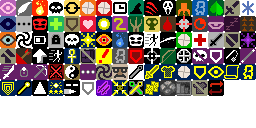
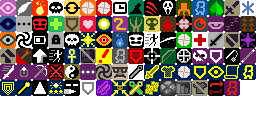
2.0.0-beta4:制作怨魂新护甲技能“邪恶展开”

Changed region(s): [[0.875, 0.625, 0.9375, 0.75]]

diff --git a/core/src/main/java/com/shatteredpixel/shatteredpixeldungeon/actors/hero/abilities/wraith/EvilUnfold.java b/core/src/main/java/com/shatteredpixel/shatteredpixeldungeon/actors/hero/abilities/wraith/EvilUnfold.java
@@ -1,0 +1,119 @@
+/*
+ * Pixel Dungeon
+ * Copyright (C) 2012-2015 Oleg Dolya
+ *
+ * Shattered Pixel Dungeon
+ * Copyright (C) 2014-2025 Evan Debenham
+ *
+ * This program is free software: you can redistribute it and/or modify
+ * it under the terms of the GNU General Public License as published by
+ * the Free Software Foundation, either version 3 of the License, or
+ * (at your option) any later version.
+ *
+ * This program is distributed in the hope that it will be useful,
+ * but WITHOUT ANY WARRANTY; without even the implied warranty of
+ * MERCHANTABILITY or FITNESS FOR A PARTICULAR PURPOSE.  See the
+ * GNU General Public License for more details.
+ *
+ * You should have received a copy of the GNU General Public License
+ * along with this program.  If not, see <http://www.gnu.org/licenses/>
+ */
+
+package com.shatteredpixel.shatteredpixeldungeon.actors.hero.abilities.wraith;
+
+import com.shatteredpixel.shatteredpixeldungeon.Assets;
+import com.shatteredpixel.shatteredpixeldungeon.actors.Actor;
+import com.shatteredpixel.shatteredpixeldungeon.actors.Char;
+import com.shatteredpixel.shatteredpixeldungeon.actors.buffs.BrokenArmor;
+import com.shatteredpixel.shatteredpixeldungeon.actors.buffs.Buff;
+import com.shatteredpixel.shatteredpixeldungeon.actors.buffs.Cripple;
+import com.shatteredpixel.shatteredpixeldungeon.actors.buffs.Daze;
+import com.shatteredpixel.shatteredpixeldungeon.actors.buffs.FlavourBuff;
+import com.shatteredpixel.shatteredpixeldungeon.actors.buffs.Hex;
+import com.shatteredpixel.shatteredpixeldungeon.actors.buffs.Invisibility;
+import com.shatteredpixel.shatteredpixeldungeon.actors.buffs.Paralysis;
+import com.shatteredpixel.shatteredpixeldungeon.actors.buffs.Roots;
+import com.shatteredpixel.shatteredpixeldungeon.actors.buffs.Slow;
+import com.shatteredpixel.shatteredpixeldungeon.actors.buffs.Vulnerable;
+import com.shatteredpixel.shatteredpixeldungeon.actors.hero.Hero;
+import com.shatteredpixel.shatteredpixeldungeon.actors.hero.Talent;
+import com.shatteredpixel.shatteredpixeldungeon.actors.hero.abilities.ArmorAbility;
+import com.shatteredpixel.shatteredpixeldungeon.effects.Flare;
+import com.shatteredpixel.shatteredpixeldungeon.items.armor.ClassArmor;
+import com.shatteredpixel.shatteredpixeldungeon.ui.BuffIndicator;
+import com.shatteredpixel.shatteredpixeldungeon.ui.HeroIcon;
+import com.watabou.noosa.audio.Sample;
+import com.watabou.utils.Random;
+
+import java.util.ArrayList;
+
+public class EvilUnfold extends ArmorAbility {
+
+	{
+		baseChargeUse = 50;
+	}
+
+	@Override
+	protected void activate(ClassArmor armor, Hero hero, Integer target) {
+		Buff.affect(hero, Evil.class, 10f);
+		hero.sprite.operate(hero.pos);
+		Sample.INSTANCE.play(Assets.Sounds.BURNING);
+		new Flare(6, 48).color(0xFF0000, true).show(hero.sprite, 2f);
+
+		armor.charge -= chargeUse(hero);
+		armor.updateQuickslot();
+		Invisibility.dispel();
+		hero.spendAndNext(Actor.TICK);
+	}
+
+	@Override
+	public int icon() {
+		return HeroIcon.EVILUNFOLD;
+	}
+
+	@Override
+	public Talent[] talents() {
+		return new Talent[]{Talent.HEROIC_ENERGY};
+	}
+
+	public static class Evil extends FlavourBuff {
+
+		{
+			type = buffType.POSITIVE;
+		}
+
+		public static float DURATION = 10f;
+		private float delayedTime = 0f;
+
+		@Override
+		public int icon() {
+			return BuffIndicator.EVILUNFOLD;
+		}
+
+		public static void giveDebuff(int point, Char c){
+			ArrayList<Class<? extends FlavourBuff>> debuffs = new ArrayList<>();
+			if (c.buff(Vulnerable.class) == null) debuffs.add(Vulnerable.class);
+			else if (c.buff(BrokenArmor.class) == null && point >= 1)
+				debuffs.add(BrokenArmor.class);
+			if (c.buff(Hex.class) == null)        debuffs.add(Hex.class);
+			else if (c.buff(Daze.class) == null && point >= 2)
+				debuffs.add(Daze.class);
+			if (c.buff(Cripple.class) == null)    debuffs.add(Cripple.class);
+			else if (c.buff(Roots.class) == null && point >= 3)
+				debuffs.add(Roots.class);
+			if (c.buff(Slow.class) == null)       debuffs.add(Slow.class);
+			else if (c.buff(Paralysis.class) == null && point >= 4)
+				debuffs.add(Paralysis.class);
+
+			if (!debuffs.isEmpty()) Buff.prolong(c, debuffs.get(Random.Int(debuffs.size())), 10f);
+		}
+
+		public void delayTime(float dmg){
+			if (!((Hero)target).hasTalent(Talent.IMMORTAL_EVIL)) return;
+			float toDly = dmg / (target.HT * 0.15f - 0.025f * ((Hero)target).pointsInTalent(Talent.IMMORTAL_EVIL));
+			toDly = Math.min(toDly, 10 - delayedTime);
+			spend(toDly);
+			delayedTime += toDly;
+		}
+	}
+}

diff --git a/core/src/main/java/com/shatteredpixel/shatteredpixeldungeon/actors/hero/Talent.java b/core/src/main/java/com/shatteredpixel/shatteredpixeldungeon/actors/hero/Talent.java
@@ -29,6 +29,7 @@ import com.shatteredpixel.shatteredpixeldungeon.actors.Actor;
 import com.shatteredpixel.shatteredpixeldungeon.actors.Char;
 import com.shatteredpixel.shatteredpixeldungeon.actors.buffs.AcidRain;
 import com.shatteredpixel.shatteredpixeldungeon.actors.buffs.Adrenaline;
+import com.shatteredpixel.shatteredpixeldungeon.actors.buffs.AllyBuff;
 import com.shatteredpixel.shatteredpixeldungeon.actors.buffs.ArtifactRecharge;
 import com.shatteredpixel.shatteredpixeldungeon.actors.buffs.Barrier;
 import com.shatteredpixel.shatteredpixeldungeon.actors.buffs.Bleeding;
@@ -37,6 +38,7 @@ import com.shatteredpixel.shatteredpixeldungeon.actors.buffs.BrokenArmor;
 import com.shatteredpixel.shatteredpixeldungeon.actors.buffs.Buff;
 import com.shatteredpixel.shatteredpixeldungeon.actors.buffs.Burning;
 import com.shatteredpixel.shatteredpixeldungeon.actors.buffs.Chill;
+import com.shatteredpixel.shatteredpixeldungeon.actors.buffs.Corruption;
 import com.shatteredpixel.shatteredpixeldungeon.actors.buffs.CounterBuff;
 import com.shatteredpixel.shatteredpixeldungeon.actors.buffs.Cripple;
 import com.shatteredpixel.shatteredpixeldungeon.actors.buffs.EnhancedRings;
@@ -58,6 +60,7 @@ import com.shatteredpixel.shatteredpixeldungeon.actors.buffs.WandEmpower;
 import com.shatteredpixel.shatteredpixeldungeon.actors.hero.abilities.ArmorAbility;
 import com.shatteredpixel.shatteredpixeldungeon.actors.hero.abilities.Ratmogrify;
 import com.shatteredpixel.shatteredpixeldungeon.actors.hero.abilities.duelist.Challenge;
+import com.shatteredpixel.shatteredpixeldungeon.actors.hero.abilities.wraith.EvilUnfold;
 import com.shatteredpixel.shatteredpixeldungeon.actors.hero.spells.DivineSense;
 import com.shatteredpixel.shatteredpixeldungeon.actors.hero.spells.RecallInscription;
 import com.shatteredpixel.shatteredpixeldungeon.actors.mobs.Mob;
@@ -271,6 +274,8 @@ public enum Talent {
 	IMMEDIATE_USE(360, 3), VENGEFUL_SPIRIT(361, 3), SOUL_CAGING(362, 3), DEVOUR_SURGING(363, 3), OVERFLOW(364, 3),
 	//Lifeloan T4
 	HIGH_QUOTA(365, 4), EXTRA_GIFT(366, 4), BREACH_OF_TRUST(367, 4), PHILANTHROPIST(368, 4),
+	//EvilUnfold T4
+	BUFFED_NERF(369, 4), ARMY_OF_DEATH(370, 4), STRANGLING(371, 4), IMMORTAL_EVIL(372, 4),
 	//GhostWander T4
     FACE_TO_FACE_FRIGHT(373, 4), SOUL_VANISHING(374, 4), FEAR_SPREADING(375, 4), SOULFREE_GHOST(376, 4),
 
@@ -1502,6 +1507,20 @@ public enum Talent {
         if (enemy.HP <= enemy.HT * (0.2f + 0.3f * hero.pointsInTalent(BURIAL_CEREMONY)) && hero.hasTalent(BURIAL_CEREMONY)){
             dmg ++;
         }
+
+		EvilUnfold.Evil tracker = hero.buff(EvilUnfold.Evil.class);
+		if (tracker != null){
+			for (Buff buff : enemy.buffs()) if (buff.type == Buff.buffType.NEGATIVE) dmg += hero.pointsInTalent(STRANGLING);
+
+			if (dmg >= enemy.HP
+					&& Random.Float() < 0.15f * (1 + hero.pointsInTalent(Talent.ARMY_OF_DEATH))
+					&& !enemy.isImmune(Corruption.class) && enemy.buff(Corruption.class) == null
+					&& enemy instanceof Mob && enemy.isAlive()){
+				Corruption.corruptionHeal(enemy);
+				AllyBuff.affectAndLoot((Mob) enemy, hero, Corruption.class);
+				dmg = 0;
+			}
+		}
 
         TearingMealTracker tear = hero.buff(TearingMealTracker.class);
         if (tear != null){

diff --git a/core/src/main/java/com/shatteredpixel/shatteredpixeldungeon/items/wands/Wand.java b/core/src/main/java/com/shatteredpixel/shatteredpixeldungeon/items/wands/Wand.java
@@ -29,10 +29,12 @@ import com.shatteredpixel.shatteredpixeldungeon.actors.Actor;
 import com.shatteredpixel.shatteredpixeldungeon.actors.Char;
 import com.shatteredpixel.shatteredpixeldungeon.actors.blobs.Blob;
 import com.shatteredpixel.shatteredpixeldungeon.actors.blobs.ToxicGas;
+import com.shatteredpixel.shatteredpixeldungeon.actors.buffs.AllyBuff;
 import com.shatteredpixel.shatteredpixeldungeon.actors.buffs.ArtifactRecharge;
 import com.shatteredpixel.shatteredpixeldungeon.actors.buffs.Barrier;
 import com.shatteredpixel.shatteredpixeldungeon.actors.buffs.Blindness;
 import com.shatteredpixel.shatteredpixeldungeon.actors.buffs.Buff;
+import com.shatteredpixel.shatteredpixeldungeon.actors.buffs.Corruption;
 import com.shatteredpixel.shatteredpixeldungeon.actors.buffs.Degrade;
 import com.shatteredpixel.shatteredpixeldungeon.actors.buffs.FlavourBuff;
 import com.shatteredpixel.shatteredpixeldungeon.actors.buffs.Invisibility;
@@ -49,8 +51,10 @@ import com.shatteredpixel.shatteredpixeldungeon.actors.hero.HeroClass;
 import com.shatteredpixel.shatteredpixeldungeon.actors.hero.HeroSubClass;
 import com.shatteredpixel.shatteredpixeldungeon.actors.hero.Talent;
 import com.shatteredpixel.shatteredpixeldungeon.actors.hero.abilities.mage.WildMagic;
+import com.shatteredpixel.shatteredpixeldungeon.actors.hero.abilities.wraith.EvilUnfold;
 import com.shatteredpixel.shatteredpixeldungeon.actors.hero.spells.DivineSense;
 import com.shatteredpixel.shatteredpixeldungeon.actors.hero.spells.GuidingLight;
+import com.shatteredpixel.shatteredpixeldungeon.actors.mobs.Mob;
 import com.shatteredpixel.shatteredpixeldungeon.effects.Flare;
 import com.shatteredpixel.shatteredpixeldungeon.effects.FloatingText;
 import com.shatteredpixel.shatteredpixeldungeon.effects.MagicMissile;
@@ -263,6 +267,23 @@ public abstract class Wand extends Item {
 			// 15/25% chance
 			if (Random.Int(20) < 1 + 2*Dungeon.hero.pointsInTalent(Talent.SUNRAY)){
 				Buff.prolong(target, Blindness.class, 4f);
+			}
+		}
+
+		if (Dungeon.hero.buff(EvilUnfold.Evil.class) != null)
+			EvilUnfold.Evil.giveDebuff(Dungeon.hero.pointsInTalent(Talent.BUFFED_NERF), target);
+
+		EvilUnfold.Evil tracker = Dungeon.hero.buff(EvilUnfold.Evil.class);
+		if (tracker != null){
+			for (Buff buff : target.buffs()) if (buff.type == Buff.buffType.NEGATIVE) dmg += Dungeon.hero.pointsInTalent(Talent.STRANGLING);
+
+			if (dmg >= target.HP
+					&& Random.Float() < 0.15f * (1 + Dungeon.hero.pointsInTalent(Talent.ARMY_OF_DEATH))
+					&& !target.isImmune(Corruption.class) && target.buff(Corruption.class) == null
+					&& target instanceof Mob && target.isAlive()){
+				Corruption.corruptionHeal(target);
+				AllyBuff.affectAndLoot((Mob) target, Dungeon.hero, Corruption.class);
+				dmg = 0;
 			}
 		}
 		return dmg;

diff --git a/core/src/main/java/com/shatteredpixel/shatteredpixeldungeon/actors/hero/Hero.java b/core/src/main/java/com/shatteredpixel/shatteredpixeldungeon/actors/hero/Hero.java
@@ -82,6 +82,7 @@ import com.shatteredpixel.shatteredpixeldungeon.actors.hero.abilities.duelist.El
 import com.shatteredpixel.shatteredpixeldungeon.actors.hero.abilities.duelist.Feint;
 import com.shatteredpixel.shatteredpixeldungeon.actors.hero.abilities.huntress.NaturesPower;
 import com.shatteredpixel.shatteredpixeldungeon.actors.hero.abilities.warrior.Endure;
+import com.shatteredpixel.shatteredpixeldungeon.actors.hero.abilities.wraith.EvilUnfold;
 import com.shatteredpixel.shatteredpixeldungeon.actors.hero.spells.BodyForm;
 import com.shatteredpixel.shatteredpixeldungeon.actors.hero.spells.HallowedGround;
 import com.shatteredpixel.shatteredpixeldungeon.actors.hero.spells.HolyWard;
@@ -1739,6 +1740,9 @@ public class Hero extends Char {
             Buff.prolong(enemy, Weakness.class, 3f);
         }
 
+		if (buff(EvilUnfold.Evil.class) != null)
+			EvilUnfold.Evil.giveDebuff(pointsInTalent(Talent.BUFFED_NERF), enemy);
+
 		if (wep != null) {
 			damage = wep.proc( this, enemy, damage );
 		} else {
@@ -1941,6 +1945,9 @@ public class Hero extends Char {
 
 		if (buff(Challenge.DuelParticipant.class) != null){
 			buff(Challenge.DuelParticipant.class).addDamage(effectiveDamage);
+		}
+		if (buff(EvilUnfold.Evil.class) != null){
+			buff(EvilUnfold.Evil.class).delayTime(effectiveDamage);
 		}
 
         if (HP <= HT / 5f) Badges.validateWraithUnlock();

diff --git a/core/src/main/java/com/shatteredpixel/shatteredpixeldungeon/actors/hero/HeroClass.java b/core/src/main/java/com/shatteredpixel/shatteredpixeldungeon/actors/hero/HeroClass.java
@@ -50,6 +50,7 @@ import com.shatteredpixel.shatteredpixeldungeon.actors.hero.abilities.rogue.Smok
 import com.shatteredpixel.shatteredpixeldungeon.actors.hero.abilities.warrior.Endure;
 import com.shatteredpixel.shatteredpixeldungeon.actors.hero.abilities.warrior.HeroicLeap;
 import com.shatteredpixel.shatteredpixeldungeon.actors.hero.abilities.warrior.Shockwave;
+import com.shatteredpixel.shatteredpixeldungeon.actors.hero.abilities.wraith.EvilUnfold;
 import com.shatteredpixel.shatteredpixeldungeon.actors.hero.abilities.wraith.GhostWander;
 import com.shatteredpixel.shatteredpixeldungeon.actors.hero.abilities.wraith.Lifeloan;
 import com.shatteredpixel.shatteredpixeldungeon.items.BrokenSeal;
@@ -400,7 +401,7 @@ public enum HeroClass {
 			case EXPLORER:
 				return new ArmorAbility[]{new OpticalCamou(), new Sandstorm(), new Underpass()};
             case WRAITH:
-                return new ArmorAbility[]{new Lifeloan(), new GhostWander()};
+                return new ArmorAbility[]{new Lifeloan(), new EvilUnfold(), new GhostWander()};
 		}
 	}
 

diff --git a/core/src/main/java/com/shatteredpixel/shatteredpixeldungeon/ui/BuffIndicator.java b/core/src/main/java/com/shatteredpixel/shatteredpixeldungeon/ui/BuffIndicator.java
@@ -144,6 +144,7 @@ public class BuffIndicator extends Component {
     public static final int COLLAPSE    = 91;
 	public static final int BROKEN_ARMOR= 92;
 	public static final int LIFELOAN    = 93;
+	public static final int EVILUNFOLD  = 94;
 
 	public static final int SIZE_SMALL  = 7;
 	public static final int SIZE_LARGE  = 16;

diff --git a/core/src/main/java/com/shatteredpixel/shatteredpixeldungeon/ui/HeroIcon.java b/core/src/main/java/com/shatteredpixel/shatteredpixeldungeon/ui/HeroIcon.java
@@ -87,7 +87,7 @@ public class HeroIcon extends Image {
 	public static final int SANDSTORM       = 68;
 	public static final int UNDERPASS       = 69;
 	public static final int LIFELOAN        = 70;
-
+	public static final int EVILUNFOLD      = 71;
     public static final int GHOSTWANDER     = 72;
 
 	//cleric spells
